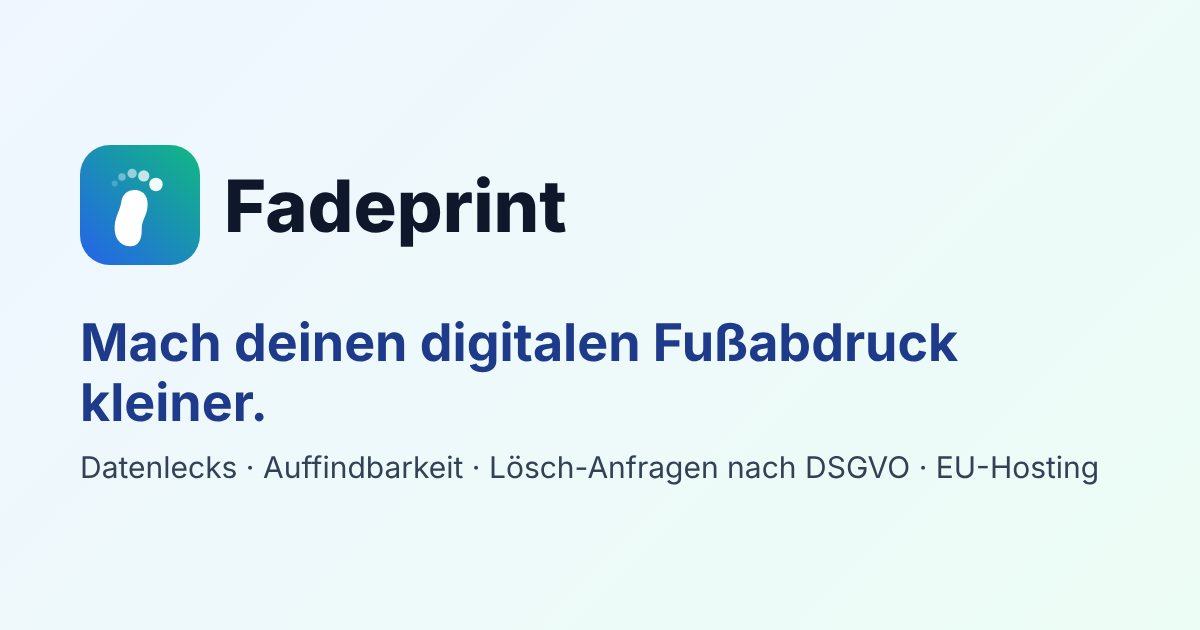
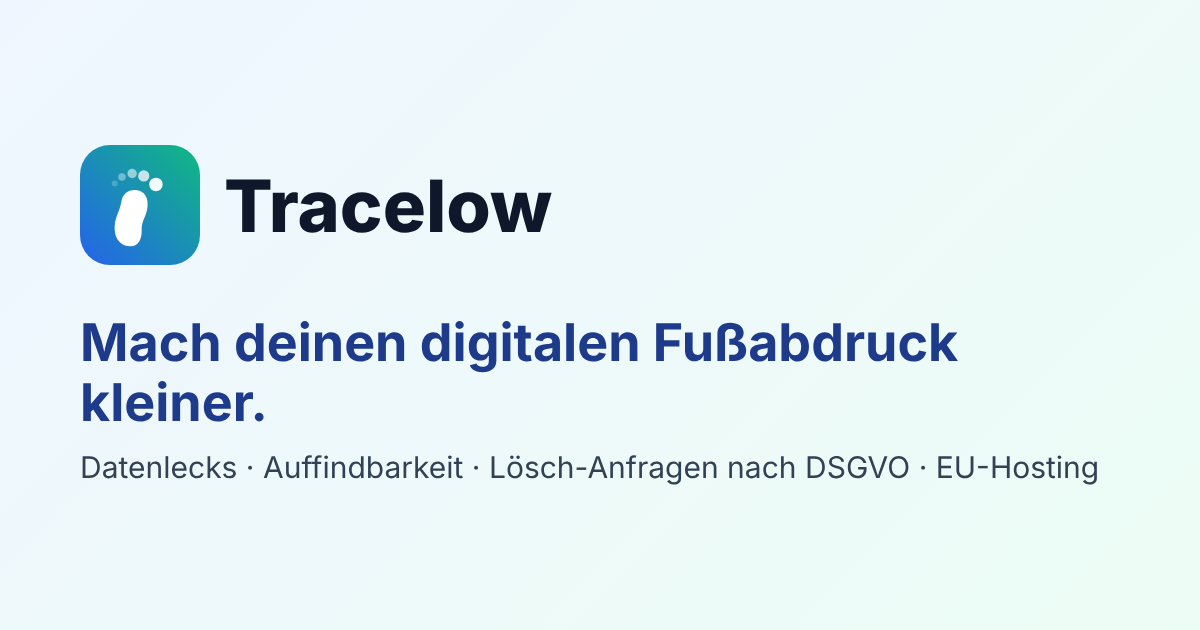
Rename brand Fadeprint → Tracelow (name already used by an existing service)
Claude-Session: https://claude.ai/code/session_01JZb7wfti4sRkyo6QsUuQy7

Changed region(s): [[0.185, 0.2714, 0.4933, 0.3921]]

diff --git a/frontend/src/lib/i18n/de.ts b/frontend/src/lib/i18n/de.ts
@@ -30,7 +30,7 @@ export const de: Record<string, V> = {
   "err.own_data_required": "Bitte bestätige, dass es deine eigenen Daten sind.",
   "err.invalid_value": "Das Format passt nicht. Bitte prüfe die Eingabe.",
   "err.identifier_exists": "Diese Angabe ist schon gespeichert.",
-  "err.hard_limit": "Diese Anfrage ist bei Fadeprint ausgeschlossen. Fadeprint hilft nur bei deinen eigenen Daten.",
+  "err.hard_limit": "Diese Anfrage ist bei Tracelow ausgeschlossen. Tracelow hilft nur bei deinen eigenen Daten.",
   "err.no_verified_identifiers": "Bestätige zuerst mindestens eine eigene Angabe.",
   "err.no_verified_email": "Bestätige zuerst eine eigene E-Mail-Adresse.",
   "err.invalid_code": "Der Code stimmt nicht.",
@@ -64,14 +64,14 @@ export const de: Record<string, V> = {
 
   // ---- landing
   "landing.hero.title": "Mach deinen digitalen Fußabdruck kleiner.",
-  "landing.hero.sub": ds("Fadeprint zeigt dir, wo deine Daten im Netz auffindbar sind – und hilft dir Schritt für Schritt, sie zu löschen. Auf Deutsch, nach DSGVO, gehostet in der EU.",
-                         "Fadeprint zeigt Ihnen, wo Ihre Daten im Netz auffindbar sind – und hilft Ihnen Schritt für Schritt, sie zu löschen. Auf Deutsch, nach DSGVO, gehostet in der EU."),
+  "landing.hero.sub": ds("Tracelow zeigt dir, wo deine Daten im Netz auffindbar sind – und hilft dir Schritt für Schritt, sie zu löschen. Auf Deutsch, nach DSGVO, gehostet in der EU.",
+                         "Tracelow zeigt Ihnen, wo Ihre Daten im Netz auffindbar sind – und hilft Ihnen Schritt für Schritt, sie zu löschen. Auf Deutsch, nach DSGVO, gehostet in der EU."),
   "landing.hero.cta": "Kostenlos starten", "landing.hero.cta2": "Auf die Warteliste", "landing.hero.note": "Kostenloser Basis-Check. Keine Kreditkarte nötig.",
   "landing.steps.title": "So funktioniert’s",
   "landing.steps.1.t": "Profil anlegen", "landing.steps.1.d": "Name, E-Mail, Benutzernamen – nur deine eigenen Angaben.",
   "landing.steps.2.t": "Bestätigen", "landing.steps.2.d": "Du bestätigst, dass die Daten dir gehören. Erst dann wird gesucht.",
   "landing.steps.3.t": "Scannen und aufräumen", "landing.steps.3.d": "Du siehst Funde, Lecks und dein Risiko – und bekommst fertige Lösch-Anfragen.",
-  "landing.diff.title": "Warum Fadeprint?",
+  "landing.diff.title": "Warum Tracelow?",
   "landing.diff.1.t": "Deutschland und DSGVO im Fokus", "landing.diff.1.d": "Deutsche Quellen, fertige Anfragen nach Art. 15, 16 und 17 DSGVO, Fristen-Tracker.",
   "landing.diff.2.t": "Eine App statt fünf Tools", "landing.diff.2.d": "Datenlecks, Auffindbarkeit, Betrugs-Check, Abos und Sicherheits-Checkliste an einem Ort.",
   "landing.diff.3.t": "Kostenlos starten, klar weitermachen", "landing.diff.3.d": "Der Basis-Check ist kostenlos. Der Assistent nennt dir immer genau einen nächsten Schritt.",
@@ -85,7 +85,7 @@ export const de: Record<string, V> = {
   "landing.trust.3": "Passwörter verlassen nie deinen Browser im Klartext.",
   "landing.trust.4": "Lösch-Anfragen versendest du selbst. Wir senden nichts in deinem Namen.",
   "landing.trust.5": "Kündigung jederzeit mit einem Klick. Keine versteckten Kosten.",
-  "landing.wait.title": "Warteliste", "landing.wait.sub": "Wir öffnen Fadeprint in Wellen. Trag dich ein – wir melden uns.",
+  "landing.wait.title": "Warteliste", "landing.wait.sub": "Wir öffnen Tracelow in Wellen. Trag dich ein – wir melden uns.",
   "landing.wait.consent": "Ich möchte per E-Mail über den Start informiert werden. Abmeldung jederzeit möglich.",
   "landing.wait.button": "Eintragen", "landing.wait.done": "Fast geschafft! Bitte bestätige den Link in deinem Postfach.",
 
@@ -207,7 +207,7 @@ export const de: Record<string, V> = {
   "img.title": "Bild-Check", "img.explain": "Zeige und entferne Metadaten (z. B. GPS-Ort) deiner eigenen Bilder. Bilder werden nur im Arbeitsspeicher verarbeitet und nicht gespeichert.",
   "img.own": "Das ist mein eigenes Bild (oder ich habe die Rechte daran).", "img.upload": "Bild auswählen", "img.analyze": "Analysieren", "img.strip": "Metadaten entfernen und herunterladen",
   "img.exif": "Metadaten", "img.gps": "Achtung: Das Bild enthält einen GPS-Standort.", "img.ela": "Fehlerstufen-Analyse (ELA)", "img.ai": "KI-Hinweise (unsicher)",
-  "img.reverse": "Wo taucht mein Bild auf?", "img.reverseHint": "Öffne eine Bildersuche und lade dort dein Bild hoch. Fadeprint macht keine Gesichtserkennung.",
+  "img.reverse": "Wo taucht mein Bild auf?", "img.reverseHint": "Öffne eine Bildersuche und lade dort dein Bild hoch. Tracelow macht keine Gesichtserkennung.",
 
   // ---- checklists
   "check.title": "Sicherheits-Checkliste", "check.explain": "Acht Punkte, die dich wirklich schützen. Jeder erledigte Punkt senkt deinen Risiko-Wert.",
@@ -215,7 +215,7 @@ export const de: Record<string, V> = {
   "social.title": "Social-Media-Check", "social.explain": "Schritt für Schritt deine eigenen Konten absichern. Wir fragen nie nach Passwörtern und melden uns nirgends an.",
 
   // ---- monitor / timeline / notifications
-  "mon.title": "Überwachung", "mon.explain": "Fadeprint prüft regelmäßig erneut und meldet nur, was neu ist.",
+  "mon.title": "Überwachung", "mon.explain": "Tracelow prüft regelmäßig erneut und meldet nur, was neu ist.",
   "mon.enabled": "Überwachung aktiv", "mon.frequency": "Wie oft?", "mon.daily": "Täglich", "mon.weekly": "Wöchentlich",
   "mon.severity": "Nur melden ab Risiko", "mon.quiet": "Ruhezeit (keine Benachrichtigung)", "mon.push": "Push-Nachricht", "mon.email": "E-Mail",
   "mon.run": "Jetzt prüfen", "mon.last": "Zuletzt geprüft", "mon.pushEnable": "Push auf diesem Gerät erlauben",
@@ -228,7 +228,7 @@ export const de: Record<string, V> = {
   "subs.unsubscribe": "Abmelden", "subs.deleteAccount": "Löschung beantragen", "subs.howto": "So exportierst du deine Mails",
   "subs.oauth": "Die direkte Gmail-Verbindung ist auf diesem Server noch nicht eingerichtet. Der Mail-Export funktioniert immer.",
   "subs.mailboxTitle": "Oder: Gmail direkt verbinden (nur Lesen)",
-  "subs.mailboxHint": "Fadeprint liest nur Kopfzeilen (Absender, Betreff, Datum, Abmelde-Link) – keine Inhalte, keine Anhänge. Du kannst die Verbindung jederzeit trennen; dann widerrufen wir den Zugriff sofort bei Google.",
+  "subs.mailboxHint": "Tracelow liest nur Kopfzeilen (Absender, Betreff, Datum, Abmelde-Link) – keine Inhalte, keine Anhänge. Du kannst die Verbindung jederzeit trennen; dann widerrufen wir den Zugriff sofort bei Google.",
   "subs.mailboxConnect": "Gmail verbinden", "subs.mailboxConnected": "Postfach verbunden und analysiert.", "subs.mailboxSync": "Jetzt abgleichen",
   "subs.mailboxDisconnect": "Verbindung trennen", "subs.mailboxLast": "Zuletzt abgeglichen",
   "docs.title": "Dokumenten-Scanner", "docs.explain": "Lade Verträge oder Briefe hoch. Wir erkennen Fristen und sensible Daten und erinnern dich rechtzeitig. Verschlüsselt gespeichert.",
@@ -244,7 +244,7 @@ export const de: Record<string, V> = {
   "graph.familyHint": "Nur mit Zustimmung der Person. Wird nie durchsucht und nie mit Funden verknüpft.", "graph.familyConsent": "Die Person ist einverstanden.",
   "ai.title": "Assistent", "ai.explain": "Frag nach deinen eigenen Daten. Antworten nennen die Quelle und genau einen nächsten Schritt.",
   "ai.placeholder": "z. B. Was ist mein größtes Datenrisiko?", "ai.send": "Senden", "ai.mic": "Spracheingabe", "ai.speak": "Vorlesen",
-  "ai.micConsent": "Mikrofon nutzen? Die Spracherkennung läuft über deinen Browser. Fadeprint speichert keine Audiodaten.",
+  "ai.micConsent": "Mikrofon nutzen? Die Spracherkennung läuft über deinen Browser. Tracelow speichert keine Audiodaten.",
   "ai.classic": "Klassischer Modus (ohne KI)", "ai.notice": "Kostenlose KI-Angebote können Eingaben zur Verbesserung nutzen. Deshalb anonymisieren wir Namen, Adressen, Telefonnummern und E-Mails vor dem Senden.",
   "ai.suggest1": "Was ist mein größtes Datenrisiko?", "ai.suggest2": "Welche Lösch-Anfragen sind überfällig?", "ai.suggest3": "Wie viele Datenlecks habe ich?",
 
@@ -273,7 +273,7 @@ export const de: Record<string, V> = {
   "cookie.text": "Wir nutzen nur technisch notwendige Cookies (Anmeldung, Sicherheit). Es gibt kein Tracking. Falls wir später Statistik einsetzen, fragen wir dich vorher.",
   "cookie.ok": "Verstanden", "cookie.decline": "Nur notwendige",
   "feedback.title": "Feedback geben", "feedback.placeholder": "Was können wir besser machen?", "feedback.send": "Senden", "feedback.thanks": "Danke für dein Feedback!",
-  "abuse.title": "Missbrauch melden", "abuse.explain": "Du glaubst, jemand nutzt Fadeprint, um dich auszuforschen? Sag uns Bescheid. Wir prüfen jede Meldung.",
+  "abuse.title": "Missbrauch melden", "abuse.explain": "Du glaubst, jemand nutzt Tracelow, um dich auszuforschen? Sag uns Bescheid. Wir prüfen jede Meldung.",
   "cancel.title": "Vertrag kündigen", "cancel.explain": "Hier kannst du dein Abo kündigen – auch ohne Anmeldung. Du bekommst sofort eine Eingangsbestätigung per E-Mail.",
   "cancel.button": "Jetzt kündigen", "cancel.done": "Deine Kündigung ist eingegangen. Die Bestätigung ist per E-Mail unterwegs.",
 };

diff --git a/frontend/src/app/(site)/page.tsx b/frontend/src/app/(site)/page.tsx
@@ -22,9 +22,9 @@ const features = [
 ] as const;
 
 const faq = [
-  ["Sucht Fadeprint auch nach anderen Personen?", "Nein. Gesucht wird ausschließlich nach deinen eigenen, bestätigten Angaben. Eine freie Personensuche gibt es nicht – technisch nicht und auch nicht für Admins."],
+  ["Sucht Tracelow auch nach anderen Personen?", "Nein. Gesucht wird ausschließlich nach deinen eigenen, bestätigten Angaben. Eine freie Personensuche gibt es nicht – technisch nicht und auch nicht für Admins."],
   ["Woher kommen die Daten?", "Aus erlaubten öffentlichen Quellen und offiziellen Schnittstellen, z. B. Datenleck-Datenbanken, Wikipedia oder Such-Schnittstellen. Wir umgehen keine Logins, Captchas oder Paywalls."],
-  ["Löscht Fadeprint meine Daten automatisch?", "Wir erstellen fertige Lösch-Anfragen nach DSGVO. Versenden tust du sie selbst – so behältst du die Kontrolle, und es ist rechtlich eindeutig, dass die Anfrage von dir kommt."],
+  ["Löscht Tracelow meine Daten automatisch?", "Wir erstellen fertige Lösch-Anfragen nach DSGVO. Versenden tust du sie selbst – so behältst du die Kontrolle, und es ist rechtlich eindeutig, dass die Anfrage von dir kommt."],
   ["Was kostet das?", "Der Basis-Check ist kostenlos. Premium kostet 3,99 € im Monat und ist monatlich kündbar – mit einem Klick."],
   ["Wo liegen meine Daten?", "Auf Servern in Deutschland. Sensible Angaben speichern wir verschlüsselt. Du kannst alles jederzeit exportieren oder löschen."],
   ["Ist das eine Rechtsberatung?", "Nein. Die Vorlagen helfen dir, deine Rechte wahrzunehmen, ersetzen aber keine anwaltliche Beratung."],

diff --git a/frontend/src/content/blog/index.ts b/frontend/src/content/blog/index.ts
@@ -19,7 +19,7 @@ Foren, Shops und Apps, die du nicht mehr nutzt, speichern oft noch Daten. Notier
 ## 4. Mach eine Liste – und fang mit dem Wichtigsten an
 Adresse, Telefonnummer und Geburtsdatum sind sensibler als ein Benutzername. Fang dort an.
 
-> Tipp: Fadeprint erledigt die Schritte 1 bis 4 für deine bestätigten Angaben und sortiert die Funde nach Wirkung.`,
+> Tipp: Tracelow erledigt die Schritte 1 bis 4 für deine bestätigten Angaben und sortiert die Funde nach Wirkung.`,
     sources: ["https://haveibeenpwned.com/", "https://xposedornot.com/", "https://www.bfdi.bund.de/"],
   },
   {
@@ -148,7 +148,7 @@ Wenn du Fotos von zu Hause öffentlich teilst oder per E-Mail verschickst. Viele
 - **Android**: In der Kamera-App die Standort-Speicherung deaktivieren.
 - **Windows**: Rechtsklick → Eigenschaften → Details → „Eigenschaften und persönliche Informationen entfernen“.
 
-Oder nutze den Bild-Check in Fadeprint: Er zeigt die Metadaten und entfernt sie mit einem Klick.`,
+Oder nutze den Bild-Check in Tracelow: Er zeigt die Metadaten und entfernt sie mit einem Klick.`,
     sources: ["https://support.apple.com/de-de/guide/iphone/iph3d110f84/ios"],
   },
   {
@@ -182,7 +182,7 @@ Sprecht über Einstellungen wie private Profile oder Standortfreigabe. Heimliche
 
 ## Gute Startpunkte
 - Klicksafe (EU-Initiative) mit Ratgebern für Eltern
-- Die Sicherheits-Checkliste in Fadeprint, die ihr gemeinsam durchgeht`,
+- Die Sicherheits-Checkliste in Tracelow, die ihr gemeinsam durchgeht`,
     sources: ["https://www.klicksafe.de/", "https://eur-lex.europa.eu/eli/reg/2016/679/oj"],
   },
 ];

diff --git a/frontend/src/app/app/reports/page.tsx b/frontend/src/app/app/reports/page.tsx
@@ -50,8 +50,8 @@ export default function Reports() {
                 <li key={r.id} className="flex flex-wrap items-center gap-2 py-2 text-sm">
                   <span className="font-medium">{t("rep.version")} {r.version}</span><span className="text-muted-foreground">{fmtDate(r.created_at, true)} · {r.summary.score}/100 · {r.summary.total} Funde</span>
                   <span className="ml-auto flex gap-2">
-                    <Button size="sm" variant="outline" onClick={() => download(`/reports/${r.id}/pdf`, `fadeprint-report-v${r.version}.pdf`)}><FileDown className="h-4 w-4" />PDF</Button>
-                    <Button size="sm" variant="outline" onClick={() => download(`/reports/${r.id}/xlsx`, `fadeprint-report-v${r.version}.xlsx`)}><FileSpreadsheet className="h-4 w-4" />Excel</Button>
+                    <Button size="sm" variant="outline" onClick={() => download(`/reports/${r.id}/pdf`, `tracelow-report-v${r.version}.pdf`)}><FileDown className="h-4 w-4" />PDF</Button>
+                    <Button size="sm" variant="outline" onClick={() => download(`/reports/${r.id}/xlsx`, `tracelow-report-v${r.version}.xlsx`)}><FileSpreadsheet className="h-4 w-4" />Excel</Button>
                   </span>
                 </li>
               ))}

diff --git a/frontend/src/lib/i18n/en.ts b/frontend/src/lib/i18n/en.ts
@@ -5,7 +5,7 @@ export const en: Record<string, string> = {
   "nav.home": "Home", "nav.scan": "Scan", "nav.results": "Findings", "nav.breaches": "Breaches", "nav.passwords": "Password check",
   "nav.risk": "Risk score", "nav.requests": "Deletion requests", "nav.reports": "Reports", "nav.settings": "Settings", "nav.logout": "Sign out",
   "landing.hero.title": "Make your digital footprint smaller.",
-  "landing.hero.sub": "Fadeprint shows where your data can be found online and helps you remove it step by step. GDPR-first, hosted in the EU.",
+  "landing.hero.sub": "Tracelow shows where your data can be found online and helps you remove it step by step. GDPR-first, hosted in the EU.",
   "landing.hero.cta": "Start for free", "auth.login.title": "Sign in", "auth.register.title": "Create account",
   "home.title": "Your overview", "home.score": "Risk score",
 };

diff --git a/frontend/public/sw.js b/frontend/public/sw.js
@@ -1,4 +1,4 @@
-/* Fadeprint service worker: offline shell, static caching, web push. Never caches API responses (personal data). */
+/* Tracelow service worker: offline shell, static caching, web push. Never caches API responses (personal data). */
 const VERSION = "fp-v1";
 const SHELL = ["/offline.html", "/icons/icon-192.png", "/icons/icon.svg"];
 
@@ -22,7 +22,7 @@ self.addEventListener("fetch", (e) => {
   }
 });
 self.addEventListener("push", (e) => {
-  let data = { title: "Fadeprint", body: "Es gibt Neuigkeiten.", url: "/app" };
+  let data = { title: "Tracelow", body: "Es gibt Neuigkeiten.", url: "/app" };
   try { data = { ...data, ...e.data.json() }; } catch (_) {}
   e.waitUntil(self.registration.showNotification(data.title, { body: data.body, icon: "/icons/icon-192.png", badge: "/icons/icon-192.png", data: { url: data.url } }));
 });

diff --git a/frontend/src/app/(auth)/login/page.tsx b/frontend/src/app/(auth)/login/page.tsx
@@ -44,7 +44,7 @@ function Login() {
       <div><h1 className="text-2xl font-bold">{t("auth.login.title")}</h1><p className="text-sm text-muted-foreground">{t("auth.login.sub")}</p></div>
       {cfg.data?.demo_mode && (
         <Alert><strong>{t("auth.demo.title")}:</strong> {t("auth.demo.text")}<br />
-          <button className="mt-1 font-mono text-xs underline" onClick={() => { setEmail("demo@demo.example.com"); setPw("FadeprintDemo1!"); }}>demo@demo.example.com / FadeprintDemo1!</button>
+          <button className="mt-1 font-mono text-xs underline" onClick={() => { setEmail("demo@demo.example.com"); setPw("TracelowDemo1!"); }}>demo@demo.example.com / TracelowDemo1!</button>
         </Alert>
       )}
       <form className="space-y-4" onSubmit={(e) => { e.preventDefault(); run(async () => {

diff --git a/frontend/src/app/app/settings/page.tsx b/frontend/src/app/app/settings/page.tsx
@@ -81,7 +81,7 @@ export default function Settings() {
 
       <Card><CardHeader><CardTitle className="text-base">Deine Daten</CardTitle></CardHeader>
         <CardContent className="flex flex-wrap gap-2">
-          <Button variant="outline" onClick={() => download("/profile/export", "fadeprint-export.json")}>{t("set.export")}</Button>
+          <Button variant="outline" onClick={() => download("/profile/export", "tracelow-export.json")}>{t("set.export")}</Button>
           <Button variant="outline" onClick={() => run(async () => { await api("/auth/logout-all", { method: "POST" }); location.href = "/login"; })}>{t("set.logoutAll")}</Button>
           <Button variant="destructive" onClick={() => setDel(true)}>{t("set.delete")}</Button>
         </CardContent></Card>

diff --git a/frontend/public/offline.html b/frontend/public/offline.html
@@ -1,4 +1,4 @@
-<!doctype html><html lang="de"><head><meta charset="utf-8"><meta name="viewport" content="width=device-width,initial-scale=1"><title>Offline · Fadeprint</title>
+<!doctype html><html lang="de"><head><meta charset="utf-8"><meta name="viewport" content="width=device-width,initial-scale=1"><title>Offline · Tracelow</title>
 <style>body{font-family:system-ui,sans-serif;display:flex;min-height:100vh;align-items:center;justify-content:center;margin:0;background:#f7f9fc;color:#0f172a;text-align:center;padding:1rem}
 @media (prefers-color-scheme:dark){body{background:#0b1120;color:#e2e8f0}}</style></head>
 <body><main><h1>Du bist offline</h1><p>Sobald du wieder Internet hast, geht es weiter. Deine Daten sind sicher auf dem Server.</p>

diff --git a/frontend/e2e/site.spec.ts b/frontend/e2e/site.spec.ts
@@ -8,7 +8,7 @@ test("landing page: hero, steps, pricing, FAQ, trust, waitlist", async ({ page }
   await expect(page.getByRole("heading", { name: "So funktioniert’s" })).toBeVisible();
   await expect(page.getByText("3,99 €").first()).toBeVisible();
   await expect(page.getByText("Am beliebtesten")).toHaveCount(0); // not claimed without data
-  await page.getByText("Sucht Fadeprint auch nach anderen Personen?").click();
+  await page.getByText("Sucht Tracelow auch nach anderen Personen?").click();
   await expect(page.getByText("ausschließlich nach deinen eigenen")).toBeVisible();
   await page.locator("#wl-email").fill(`e2e-${Date.now()}@example.org`);
   await page.getByText("Ich möchte per E-Mail über den Start").click();

diff --git a/frontend/src/app/app/assistant/page.tsx b/frontend/src/app/app/assistant/page.tsx
@@ -38,7 +38,7 @@ export default function Assistant() {
   });
   const speak = (text: string) => { if (!("speechSynthesis" in window)) return; const u = new SpeechSynthesisUtterance(text); u.lang = "de-DE"; speechSynthesis.cancel(); speechSynthesis.speak(u); };
 
-  /** Microphone only after explicit consent. Audio is processed by the browser's speech service; Fadeprint stores no audio. */
+  /** Microphone only after explicit consent. Audio is processed by the browser's speech service; Tracelow stores no audio. */
   const startMic = async () => {
     const SR = (window as any).SpeechRecognition || (window as any).webkitSpeechRecognition;
     if (!SR) return;

diff --git a/frontend/e2e/helpers.ts b/frontend/e2e/helpers.ts
@@ -11,7 +11,7 @@ export async function loginDemo(page: Page, email = "demo@demo.example.com") {
   }
   await page.goto("/login");
   await page.getByLabel("E-Mail-Adresse").fill(email);
-  await page.getByLabel("Passwort", { exact: true }).fill("FadeprintDemo1!");
+  await page.getByLabel("Passwort", { exact: true }).fill("TracelowDemo1!");
   await page.getByRole("button", { name: "Anmelden", exact: true }).click();
   await expect(page).toHaveURL(/\/app$/);
   await page.evaluate(() => localStorage.setItem("fp_cookie", "necessary"));
